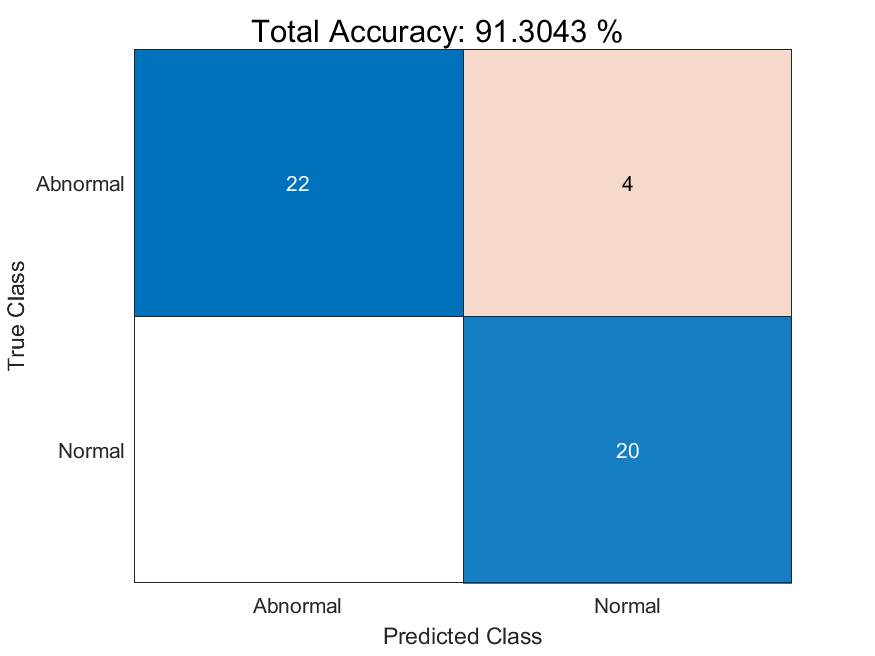
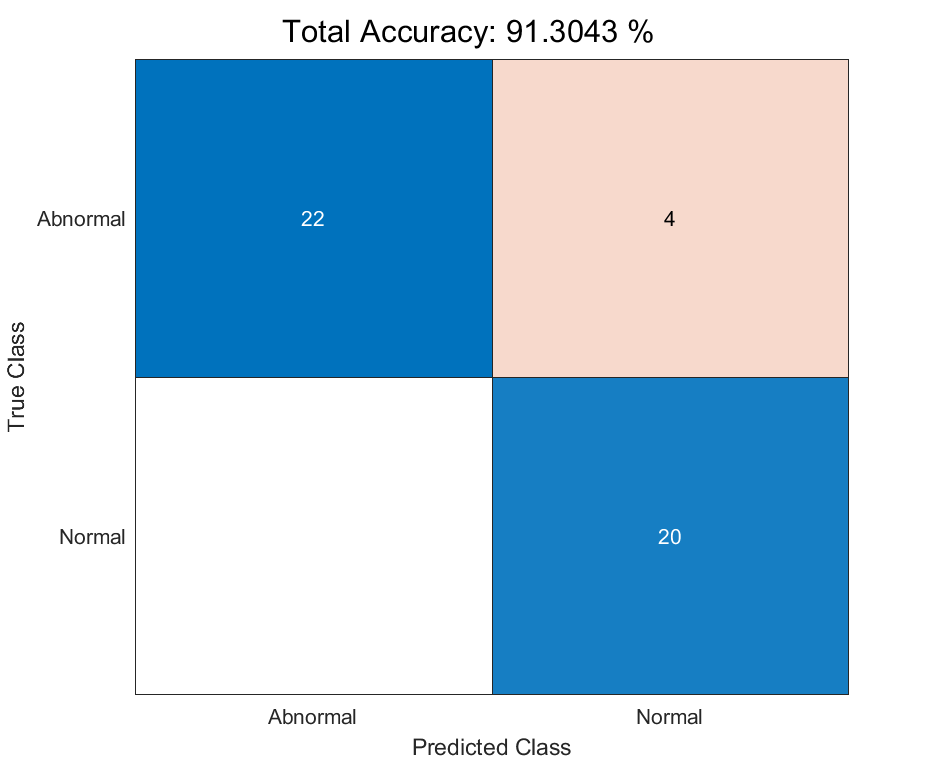
ridimensionamento immagini

diff --git a/testing/tasks.m b/testing/tasks.m
@@ -51,7 +51,9 @@ C = confusionmat(task1Actual,prediction1);
 figure;
 confusionchart(C, classLabels);
 sgtitle(['Total Accuracy: ', num2str(accuracy * 100), ' %']);
+
 fig_name = 'image/confusionchart_task1';
+set(gcf, 'Position', [150, 150, 600, 500])
 saveas(gcf, strcat(fig_name, '.png'));
 
 prediction1 = [answers.ID prediction1'];
@@ -135,6 +137,7 @@ title(['Confusion Matrix Task 2: ', num2str(accuracyTask2*100), ' %']);
 sgtitle(['Total Accuracy: ', num2str((somma2/height(prediction2Unknown))*100), ' %']);
 
 fig_name = 'image/confusionchart_task2';
+set(gcf, 'Position', [150, 150, 1000, 500])
 saveas(gcf, strcat(fig_name, '.png'));
 
 
@@ -186,6 +189,7 @@ title(['Confusion Matrix Task 3: ', num2str(accuracyTask3*100), ' %']);
 sgtitle(['Total Accuracy: ', num2str(somma3/(height(prediction3))*100), ' %']);
 
 fig_name = 'image/confusionchart_task3';
+set(gcf, 'Position', [150, 150, 1000, 500])
 saveas(gcf, strcat(fig_name, '.png'));
 
 plot_data(testFeatureTable3, prediction3.Var1, 3, '');
@@ -226,6 +230,7 @@ title(['Confusion Matrix Task 4: ', num2str(accuracyTask4*100), ' %']);
 sgtitle(['Total Accuracy: ', num2str(somma4/(height(prediction4))*100), ' %']);
 
 fig_name = 'image/confusionchart_task4';
+set(gcf, 'Position', [150, 150, 1000, 500])
 saveas(gcf, strcat(fig_name, '.png'));
 
 
@@ -281,6 +286,7 @@ title(['Confusion Matrix Task 5: ', num2str(accuracyTask5*100), ' %']);
 sgtitle(['Total Accuracy: ', num2str(somma5/(height(prediction5))*100), ' %']);
 
 fig_name = 'image/confusionchart_task5';
+set(gcf, 'Position', [150, 150, 1000, 500])
 saveas(gcf, strcat(fig_name, '.png'));
 
 plot_data(testFeatureTable5, prediction5.Var1, 5,'');
